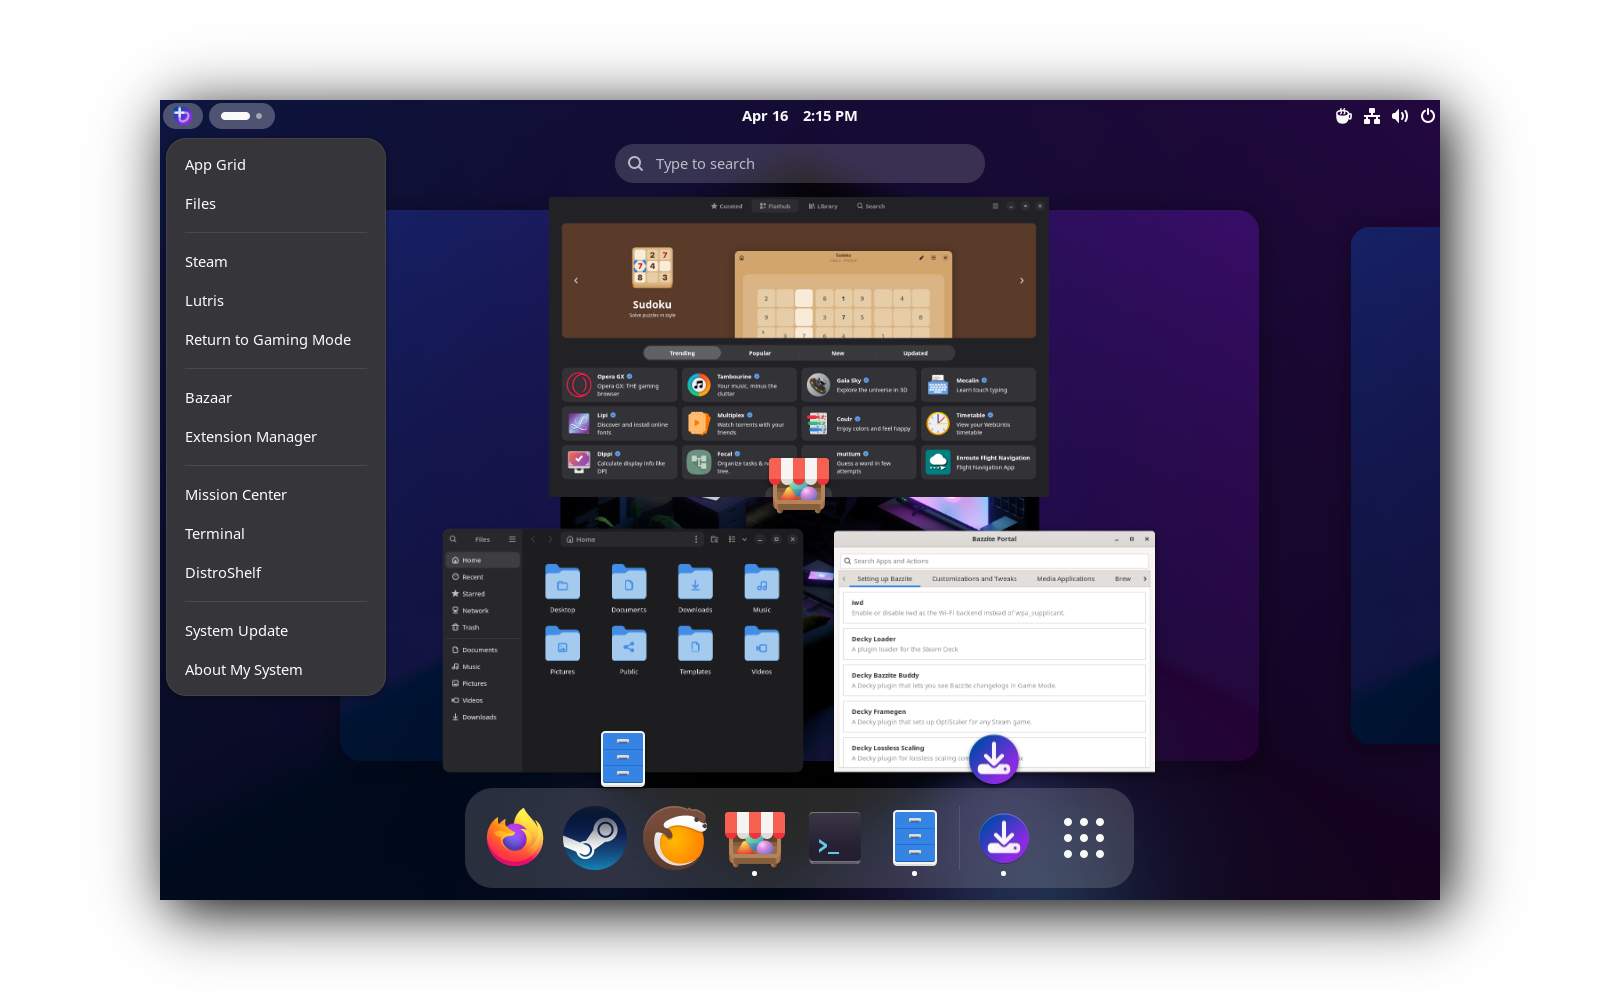
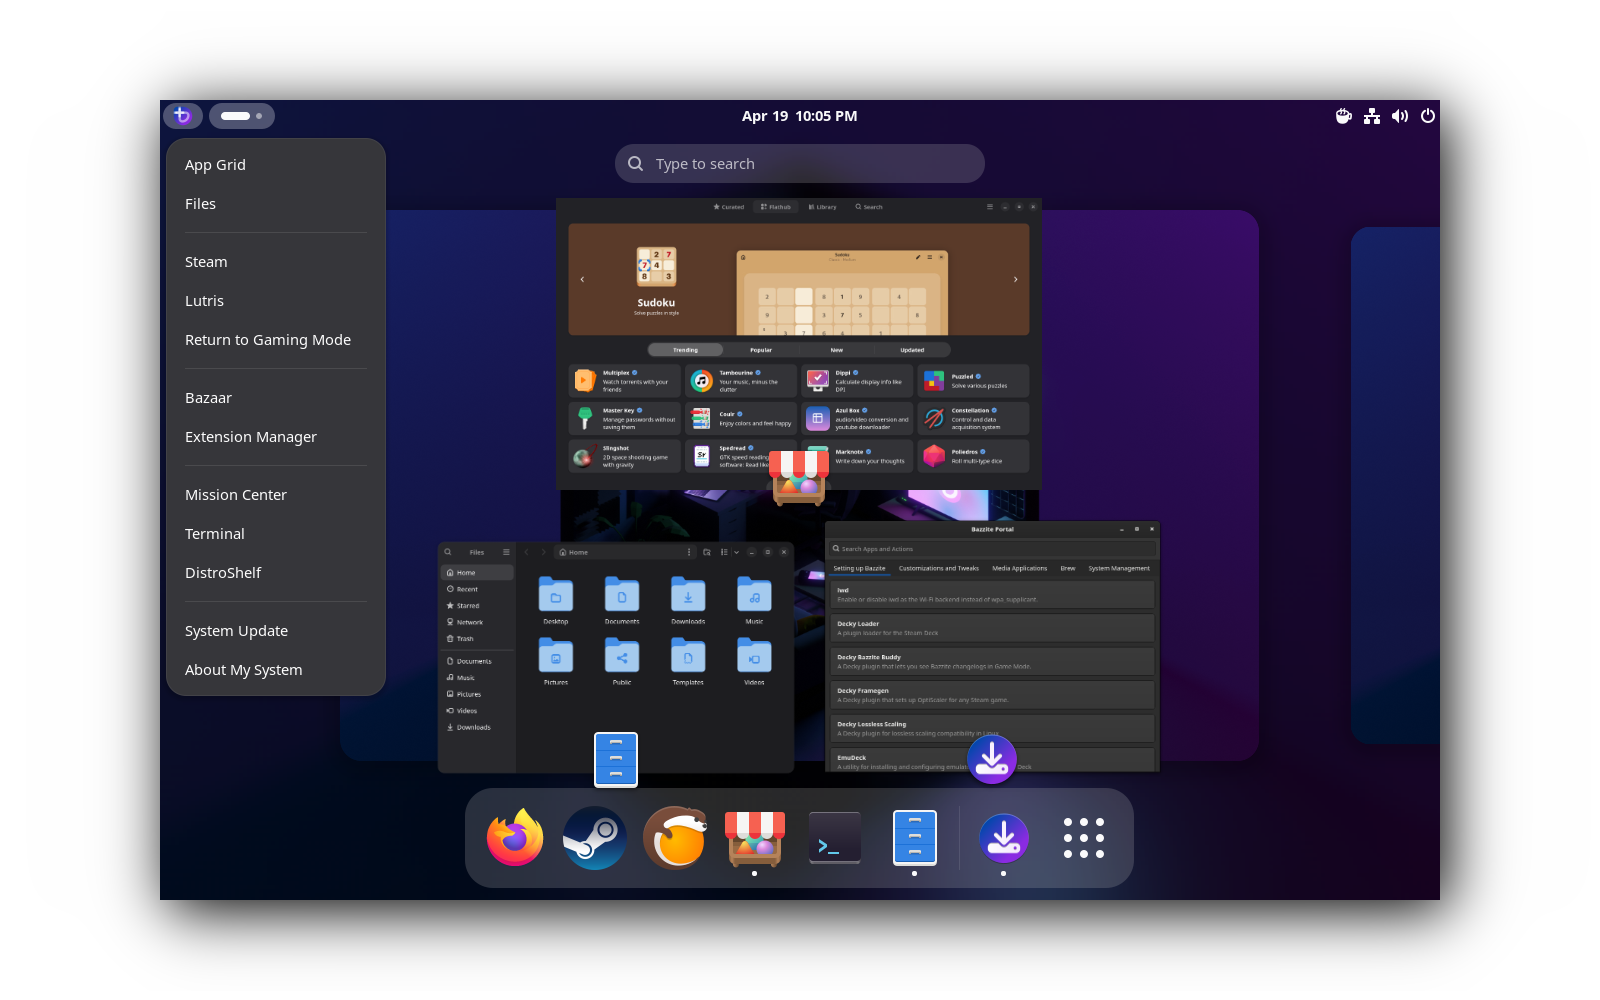
chore(readme): update gnome screenshot and screenshot descriptions

Changed region(s): [[0.25, 0.186, 0.75, 0.775], [0.3438, 0.713, 0.4062, 0.806]]

diff --git a/README-AR.md b/README-AR.md
@@ -222,11 +222,11 @@ rpm-ostree rebase ostree-unverified-registry:ghcr.io/ublue-os/bazzite-deck-gnome
 
 ![KDE Vapor Theme](/repo_content/desktop1.png?raw=true "ثيم KDE Vapor")
 ![KDE VGUI2 Theme](/repo_content/desktop2.png?raw=true "ثيم KDE VGUI2")
-![Steam Game Mode](/repo_content/gamemode.png?raw=true "وضع اللعب في Steam")
+![Steam Gaming Mode](/repo_content/gamemode.png?raw=true "وضع اللعب في Steam")
 ![Waydroid](/repo_content/waydroid.png?raw=true "Waydroid")
 ![Distrobox Terminals](/repo_content/distrobox.png?raw=true "طرفيات Distrobox")
-![GNOME Vapor Theme](/repo_content/gnome1.png?raw=true "ثيم GNOME Vapor")
-![GNOME VGUI2 Theme](/repo_content/gnome2.png?raw=true "ثيم GNOME VGUI2")
+![GNOME](/repo_content/gnome1.png?raw=true "GNOME")
+![GNOME](/repo_content/gnome2.png?raw=true "GNOME")
 
 ## التوثيق
 

diff --git a/README-FR.md b/README-FR.md
@@ -229,11 +229,11 @@ Consultez la [FAQ](https://universal-blue.discourse.group/docs?topic=33) pour pl
 
 ![KDE Vapor Theme](/repo_content/desktop1.png?raw=true "KDE Vapor Theme")
 ![KDE VGUI2 Theme](/repo_content/desktop2.png?raw=true "KDE VGUI2 Theme")
-![Steam Game Mode](/repo_content/gamemode.png?raw=true "Steam Game Mode")
+![Steam Gaming Mode](/repo_content/gamemode.png?raw=true "Steam Gaming Mode")
 ![Waydroid](/repo_content/waydroid.png?raw=true "Waydroid")
 ![Distrobox Terminals](/repo_content/distrobox.png?raw=true "Distrobox Terminals")
-![GNOME Vapor Theme](/repo_content/gnome1.png?raw=true "GNOME Vapor Theme")
-![GNOME VGUI2 Theme](/repo_content/gnome2.png?raw=true "GNOME VGUI2 Theme")
+![GNOME](/repo_content/gnome1.png?raw=true "GNOME")
+![GNOME](/repo_content/gnome2.png?raw=true "GNOME")
 
 ## Documentation et newsletters
 

diff --git a/README-NL.md b/README-NL.md
@@ -233,11 +233,11 @@ Lees de [FAQ](https://universal-blue.discourse.group/docs?topic=33) om te zien w
 
 ![KDE Vapor Thema](/repo_content/desktop1.png?raw=true "KDE Vapor Theme")
 ![KDE VGUI2 Thema](/repo_content/desktop2.png?raw=true "KDE VGUI2 Theme")
-![Steam Game Mode](/repo_content/gamemode.png?raw=true "Steam Game Mode")
+![Steam Gaming Mode](/repo_content/gamemode.png?raw=true "Steam Gaming Mode")
 ![Waydroid](/repo_content/waydroid.png?raw=true "Waydroid")
 ![Distrobox Terminals](/repo_content/distrobox.png?raw=true "Distrobox Terminals")
-![GNOME Vapor Thema](/repo_content/gnome1.png?raw=true "GNOME Vapor Theme")
-![GNOME VGUI2 Thema](/repo_content/gnome2.png?raw=true "GNOME VGUI2 Theme")
+![GNOME](/repo_content/gnome1.png?raw=true "GNOME")
+![GNOME](/repo_content/gnome2.png?raw=true "GNOME")
 
 ## Documentatie & Nieuwsbrief
 

diff --git a/README-ID.md b/README-ID.md
@@ -213,11 +213,11 @@ Baca [FAQ](https://universal-blue.discourse.group/docs?topic=33) untuk tahu apa 
 
 ![KDE Vapor Theme](/repo_content/desktop1.png?raw=true "KDE Vapor Theme")
 ![KDE VGUI2 Theme](/repo_content/desktop2.png?raw=true "KDE VGUI2 Theme")
-![Steam Game Mode](/repo_content/gamemode.png?raw=true "Steam Game Mode")
+![Steam Gaming Mode](/repo_content/gamemode.png?raw=true "Steam Gaming Mode")
 ![Waydroid](/repo_content/waydroid.png?raw=true "Waydroid")
 ![Distrobox Terminals](/repo_content/distrobox.png?raw=true "Distrobox Terminals")
-![GNOME Vapor Theme](/repo_content/gnome1.png?raw=true "GNOME Vapor Theme")
-![GNOME VGUI2 Theme](/repo_content/gnome2.png?raw=true "GNOME VGUI2 Theme")
+![GNOME](/repo_content/gnome1.png?raw=true "GNOME")
+![GNOME](/repo_content/gnome2.png?raw=true "GNOME")
 
 ## Dokumentasi & Buletin
 

diff --git a/README-BR.md b/README-BR.md
@@ -232,11 +232,11 @@ Confira o [FAQ](https://docs.bazzite.gg/General/FAQ/) para mais detalhes no que 
 
 ![KDE Vapor Theme](/repo_content/desktop1.png?raw=true "KDE Vapor Theme")
 ![KDE VGUI2 Theme](/repo_content/desktop2.png?raw=true "KDE VGUI2 Theme")
-![Steam Game Mode](/repo_content/gamemode.png?raw=true "Steam Game Mode")
+![Steam Gaming Mode](/repo_content/gamemode.png?raw=true "Steam Gaming Mode")
 ![Waydroid](/repo_content/waydroid.png?raw=true "Waydroid")
 ![Distrobox Terminals](/repo_content/distrobox.png?raw=true "Distrobox Terminals")
-![GNOME Vapor Theme](/repo_content/gnome1.png?raw=true "GNOME Vapor Theme")
-![GNOME VGUI2 Theme](/repo_content/gnome2.png?raw=true "GNOME VGUI2 Theme")
+![GNOME](/repo_content/gnome1.png?raw=true "GNOME")
+![GNOME](/repo_content/gnome2.png?raw=true "GNOME")
 
 ## Documentação
 

diff --git a/README-DE.md b/README-DE.md
@@ -225,11 +225,11 @@ Lese die [FAQ](https://docs.bazzite.gg/General/FAQ/) für Details dazu, was Bazz
 
 ![KDE Vapor Theme](/repo_content/desktop1.png?raw=true "KDE Vapor Theme")
 ![KDE VGUI2 Theme](/repo_content/desktop2.png?raw=true "KDE VGUI2 Theme")
-![Steam Game Mode](/repo_content/gamemode.png?raw=true "Steam Game Mode")
+![Steam Gaming Mode](/repo_content/gamemode.png?raw=true "Steam Gaming Mode")
 ![Waydroid](/repo_content/waydroid.png?raw=true "Waydroid")
 ![Distrobox Terminals](/repo_content/distrobox.png?raw=true "Distrobox Terminals")
-![GNOME Vapor Theme](/repo_content/gnome1.png?raw=true "GNOME Vapor Theme")
-![GNOME VGUI2 Theme](/repo_content/gnome2.png?raw=true "GNOME VGUI2 Theme")
+![GNOME](/repo_content/gnome1.png?raw=true "GNOME")
+![GNOME](/repo_content/gnome2.png?raw=true "GNOME")
 
 ## Dokumentation
 

diff --git a/README.md b/README.md
@@ -219,11 +219,11 @@ Read the [FAQ](https://docs.bazzite.gg/General/FAQ/) for details on what makes B
 
 ![KDE Vapor Theme](/repo_content/desktop1.png?raw=true "KDE Vapor Theme")
 ![KDE VGUI2 Theme](/repo_content/desktop2.png?raw=true "KDE VGUI2 Theme")
-![Steam Game Mode](/repo_content/gamemode.png?raw=true "Steam Game Mode")
+![Steam Gaming Mode](/repo_content/gamemode.png?raw=true "Steam Gaming Mode")
 ![Waydroid](/repo_content/waydroid.png?raw=true "Waydroid")
 ![Distrobox Terminals](/repo_content/distrobox.png?raw=true "Distrobox Terminals")
-![GNOME Vapor Theme](/repo_content/gnome1.png?raw=true "GNOME Vapor Theme")
-![GNOME VGUI2 Theme](/repo_content/gnome2.png?raw=true "GNOME VGUI2 Theme")
+![GNOME](/repo_content/gnome1.png?raw=true "GNOME")
+![GNOME](/repo_content/gnome2.png?raw=true "GNOME")
 
 ## Documentation
 

diff --git a/README-SPA.md b/README-SPA.md
@@ -238,15 +238,15 @@ Lee nuestras [preguntas frecuentes](https://universal-blue.discourse.group/docs?
 
 ![KDE VGUI2 Theme](/repo_content/desktop2.png?raw=true "KDE VGUI2 Theme")
 
-![Steam Game Mode](/repo_content/gamemode.png?raw=true "Steam Game Mode")
+![Steam Gaming Mode](/repo_content/gamemode.png?raw=true "Steam Gaming Mode")
 
 ![Waydroid](/repo_content/waydroid.png?raw=true "Waydroid")
 
 ![Distrobox Terminals](/repo_content/distrobox.png?raw=true "Distrobox Terminals")
 
-![GNOME Vapor Theme](/repo_content/gnome1.png?raw=true "GNOME Vapor Theme")
+![GNOME](/repo_content/gnome1.png?raw=true "GNOME")
 
-![GNOME VGUI2 Theme](/repo_content/gnome2.png?raw=true "GNOME VGUI2 Theme")
+![GNOME](/repo_content/gnome2.png?raw=true "GNOME")
 
 ## Documentación y Boletín informativo/Newsletters (En inglés)
 

diff --git a/README-ZH-TW.md b/README-ZH-TW.md
@@ -223,8 +223,8 @@ Bazzite 預設啟用最新的 Linux 核心和 SELinux，並完整支援安全啟
 ![Steam 遊戲模式](/repo_content/gamemode.png?raw=true "Steam 遊戲模式")
 ![Waydroid](/repo_content/waydroid.png?raw=true "Waydroid")
 ![Distrobox 終端機](/repo_content/distrobox.png?raw=true "Distrobox 終端機")
-![GNOME Vapor 主題](/repo_content/gnome1.png?raw=true "GNOME Vapor 主題")
-![GNOME VGUI2 主題](/repo_content/gnome2.png?raw=true "GNOME VGUI2 主題")
+![GNOME](/repo_content/gnome1.png?raw=true "GNOME")
+![GNOME](/repo_content/gnome2.png?raw=true "GNOME")
 
 ## 文件
 
